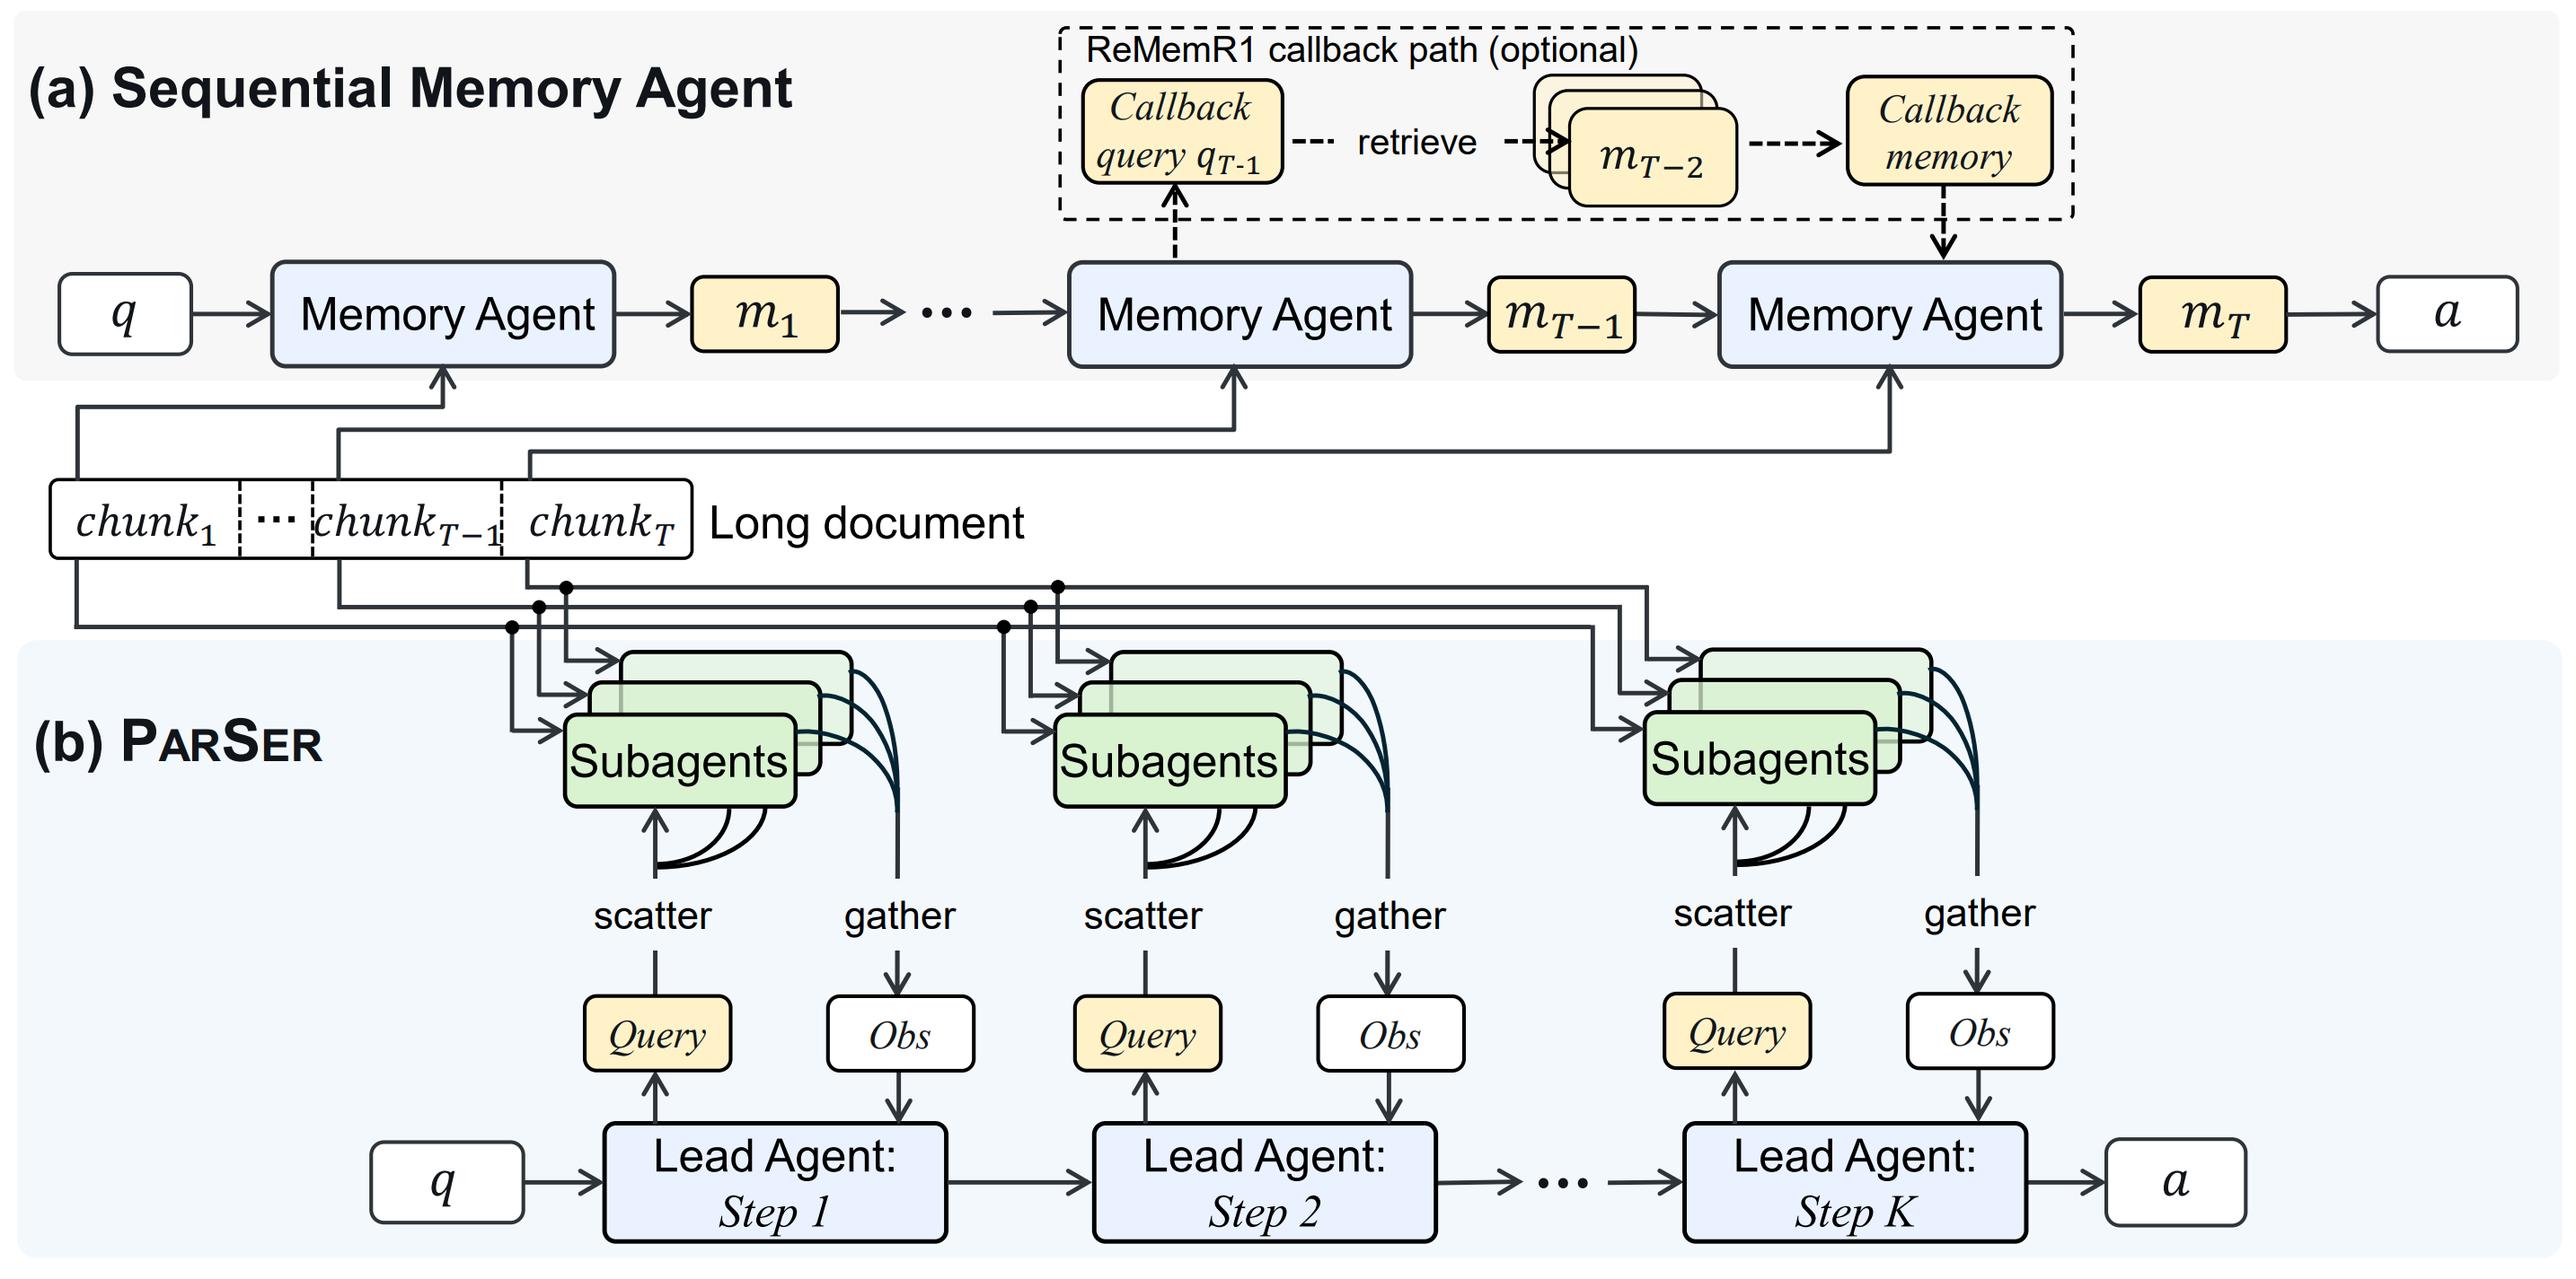
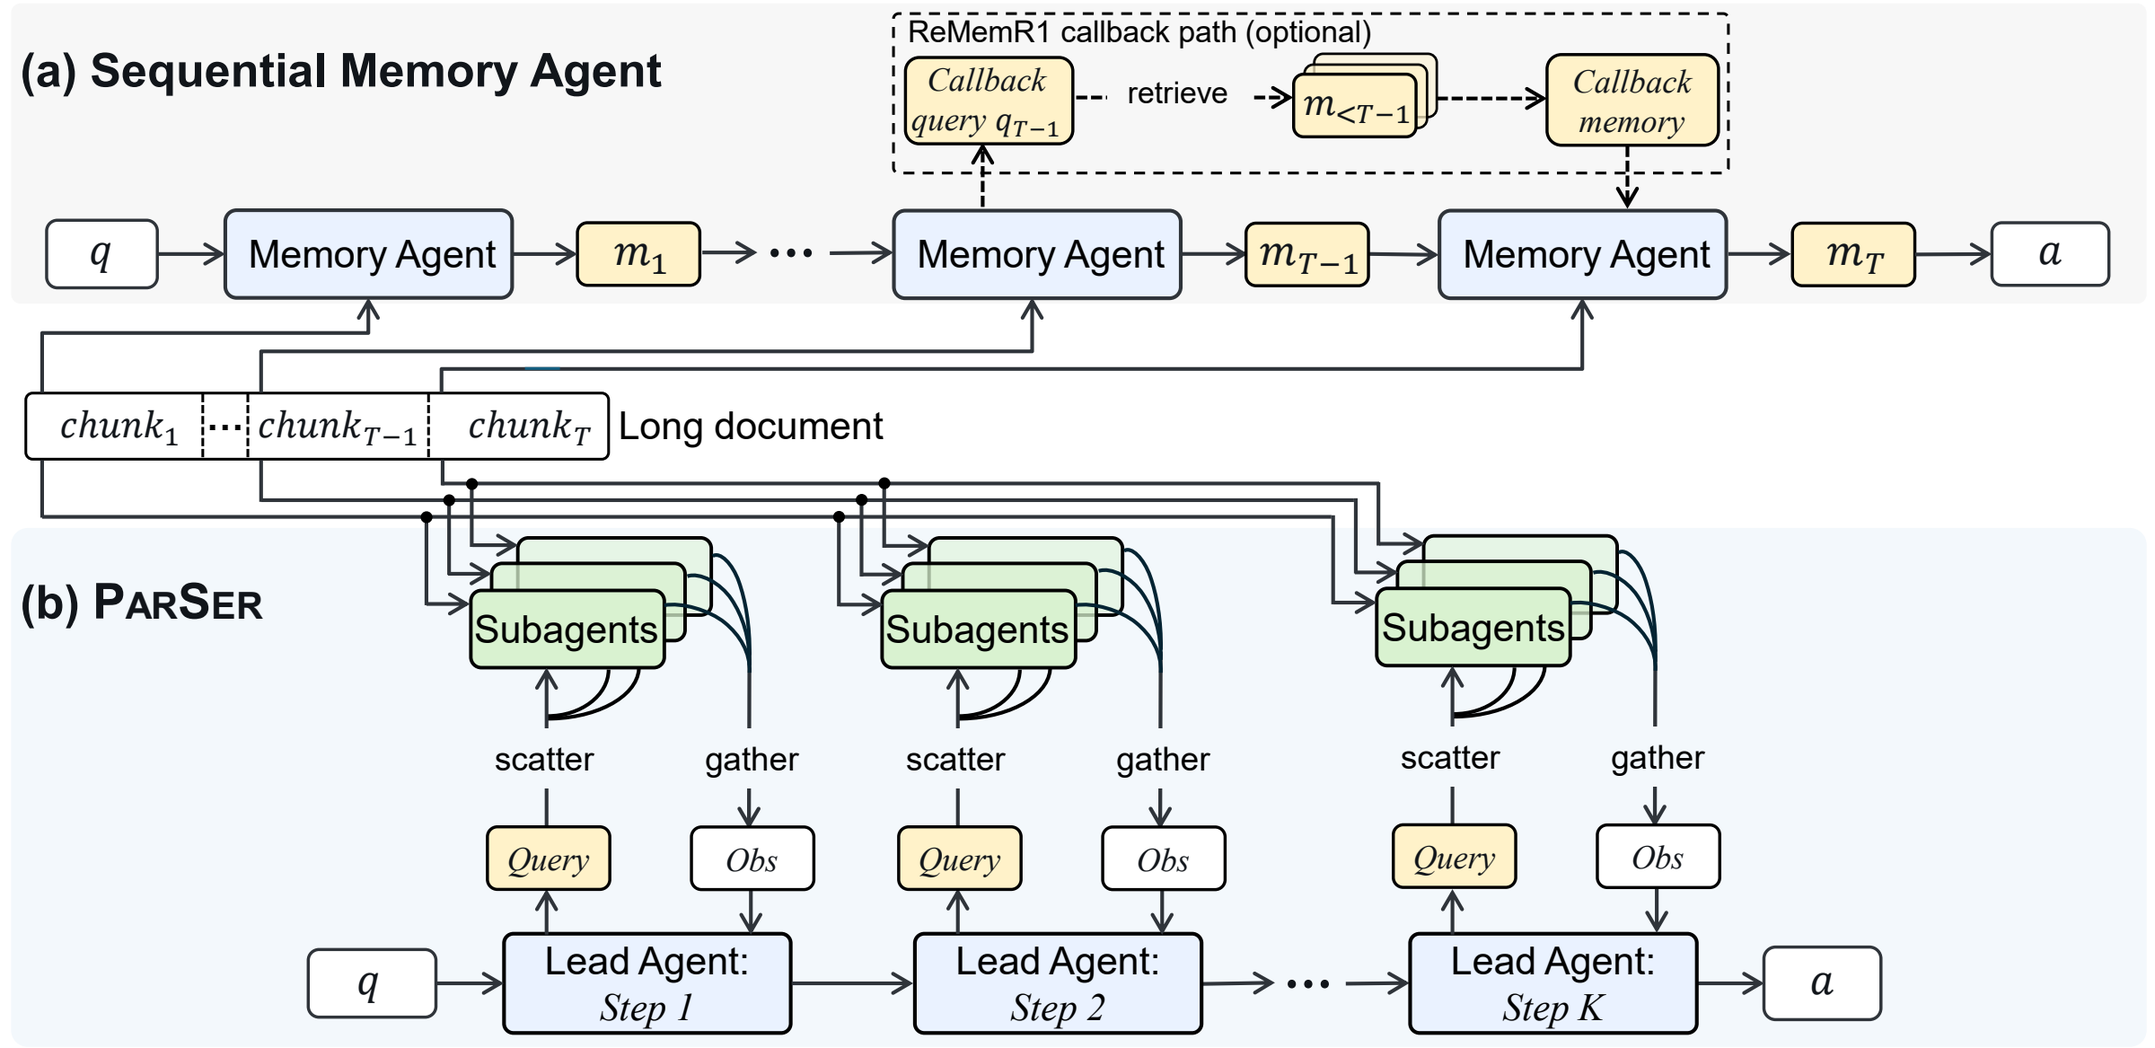
Refine documentation and evaluation settings

diff --git a/eval/eval.py b/eval/eval.py
@@ -325,7 +325,7 @@ class EvalConfig:
     data_path: str
     output_path: str
     chunk_max_length: int = 512
-    max_iterations: int = 16
+    max_iterations: int = 12
     max_tokens_per_trajectory: int = 32764
     lead_max_new_tokens: int = 8192
     subagent_api_key: str = ""

diff --git a/README.md b/README.md
@@ -1,10 +1,12 @@
-# PARSER
+# PARSER: Read in Parallel, Reason in Depth for Long-Context LLM Agents
 
-Official implementation of **PARSER**, a multi-agent framework for long-context
-reasoning. PARSER uses a lead agent to iteratively reason about a question and
-scatter queries to subagents that process different chunks of a long document.
-The gathered observations are returned to the lead agent until it produces the
-final answer.
+This repository is the official implementation of
+[**PARSER: Read in Parallel, Reason in Depth for Long-Context LLM Agents**](https://arxiv.org/abs/2609.06702).
+
+[[Project Page](https://cuhk-parser.github.io/)]
+[[Paper](https://arxiv.org/abs/2609.06702)]
+[[Model](https://huggingface.co/inNexus/parser-qwen35-4b)]
+[[Dataset](https://huggingface.co/datasets/inNexus/parser_dataset)]
 
 ![Overview of PARSER](workflow.png)
 
@@ -14,7 +16,7 @@ We release the trained 4B-parameter PARSER lead agent on Hugging Face:
 [parser-4b](https://huggingface.co/inNexus/parser-qwen35-4b).
 
 ```bash
-hf download inNexus/parser-4b --local-dir parser-4b
+hf download inNexus/parser-qwen35-4b --local-dir parser-4b
 ```
 
 The downloaded checkpoint can be supplied as `MODEL_PATH` during evaluation.
@@ -28,6 +30,28 @@ The downloaded checkpoint can be supplied as `MODEL_PATH` during evaluation.
 ├── eval/                 # HotpotQA and 2WikiMultiHopQA evaluation
 └── train/                # Training code and launch scripts
 ```
+
+## RL training framework
+
+PARSER trains the lead policy with a fully asynchronous RL pipeline while
+keeping the subagents frozen:
+
+```text
+SGLang Router (frozen subagents on multiple SGLang servers)
+                         ↕ continuous queries and observations
+Lead-agent rollout workers (continuous trajectory generation)
+                         ↓ trajectories
+                         ↑ updated parameters every 4 steps
+Megatron Trainer (policy updates)
+```
+
+- **Fully asynchronous training.** Rollout generation and policy optimization
+  run continuously on separate compute pools. While Megatron updates the lead
+  policy, the subagent cluster continues serving rollout requests, minimizing
+  subagent idle time.
+- **Cache-aware subagent routing.** SGLang Router and Radix Cache route the
+  same document chunk to the same SGLang worker across reasoning rounds. This
+  maximizes KV-cache reuse and reduces repeated prefill cost.
 
 ## Model preparation
 
@@ -44,15 +68,45 @@ The subagent checkpoint can use the original Qwen3.5 chat template.
 
 ## Installation
 
-PARSER has been tested with CUDA 12.8/12.9. Before installing the dependencies,
-edit the first two lines of `train/env_setup.sh` so that `CUDA_HOME` points to
-your CUDA installation:
+We recommend creating a dedicated Conda environment named `mcore` and using
+**Python 3.12** with **CUDA 12.8/12.9**.
+
+```bash
+conda create -n mcore python=3.12 -y
+conda activate mcore
+```
+
+If you use a different environment name, change `conda activate mcore` in
+`train/train_4b.sh` accordingly.
+
+Before installing the dependencies, edit the first two lines of
+`train/env_setup.sh` so that `CUDA_HOME` points to your CUDA installation:
 
 ```bash
 cd train
 # Edit CUDA_HOME in env_setup.sh first.
 bash env_setup.sh
 ```
+
+### SGLang Router compatibility patch
+
+The installed `sglang_router` requires a one-line import update to work with
+`sglang==0.5.10.post1`. Locate
+`<CONDA_PREFIX>/lib/python3.12/site-packages/sglang_router/launch_server.py`
+and make the following change:
+
+```diff
+-from sglang.srt.utils import is_port_available
++from sglang.srt.utils.network import is_port_available
+```
+
+You can print the expected file path with:
+
+```bash
+python -c "import site; print(site.getsitepackages()[0] + '/sglang_router/launch_server.py')"
+```
+
+### NGINX
 
 PARSER uses NGINX as a local proxy to efficiently reuse connections to SGLang
 services across nodes. Install it on the training node, for example:
@@ -112,7 +166,7 @@ different nodes or ports to provide additional subagent capacity.
 
 SGLang Router can add or remove SGLang worker nodes at any time without
 restarting the router. Example commands for listing, registering, and deleting
-workers are provided in the end of `train/set_sglang_router.sh`.
+workers are provided at the end of `train/set_sglang_router.sh`.
 
 ### 2. Configure training
 
@@ -169,7 +223,19 @@ predictions under their respective evaluation output directories.
 
 ## Citation
 
-Citation information will be added upon publication.
+If you find PARSER useful, please cite:
+
+```bibtex
+@misc{li2026parserreadparallelreason,
+      title={PARSER: Read in Parallel, Reason in Depth for Long-Context LLM Agents},
+      author={Kun Li and Zexuan Qiu and Tianhua Zhang and Irwin King and Helen Meng},
+      year={2026},
+      eprint={2609.06702},
+      archivePrefix={arXiv},
+      primaryClass={cs.CL},
+      url={https://arxiv.org/abs/2609.06702},
+}
+```
 
 ## Acknowledgements
 
